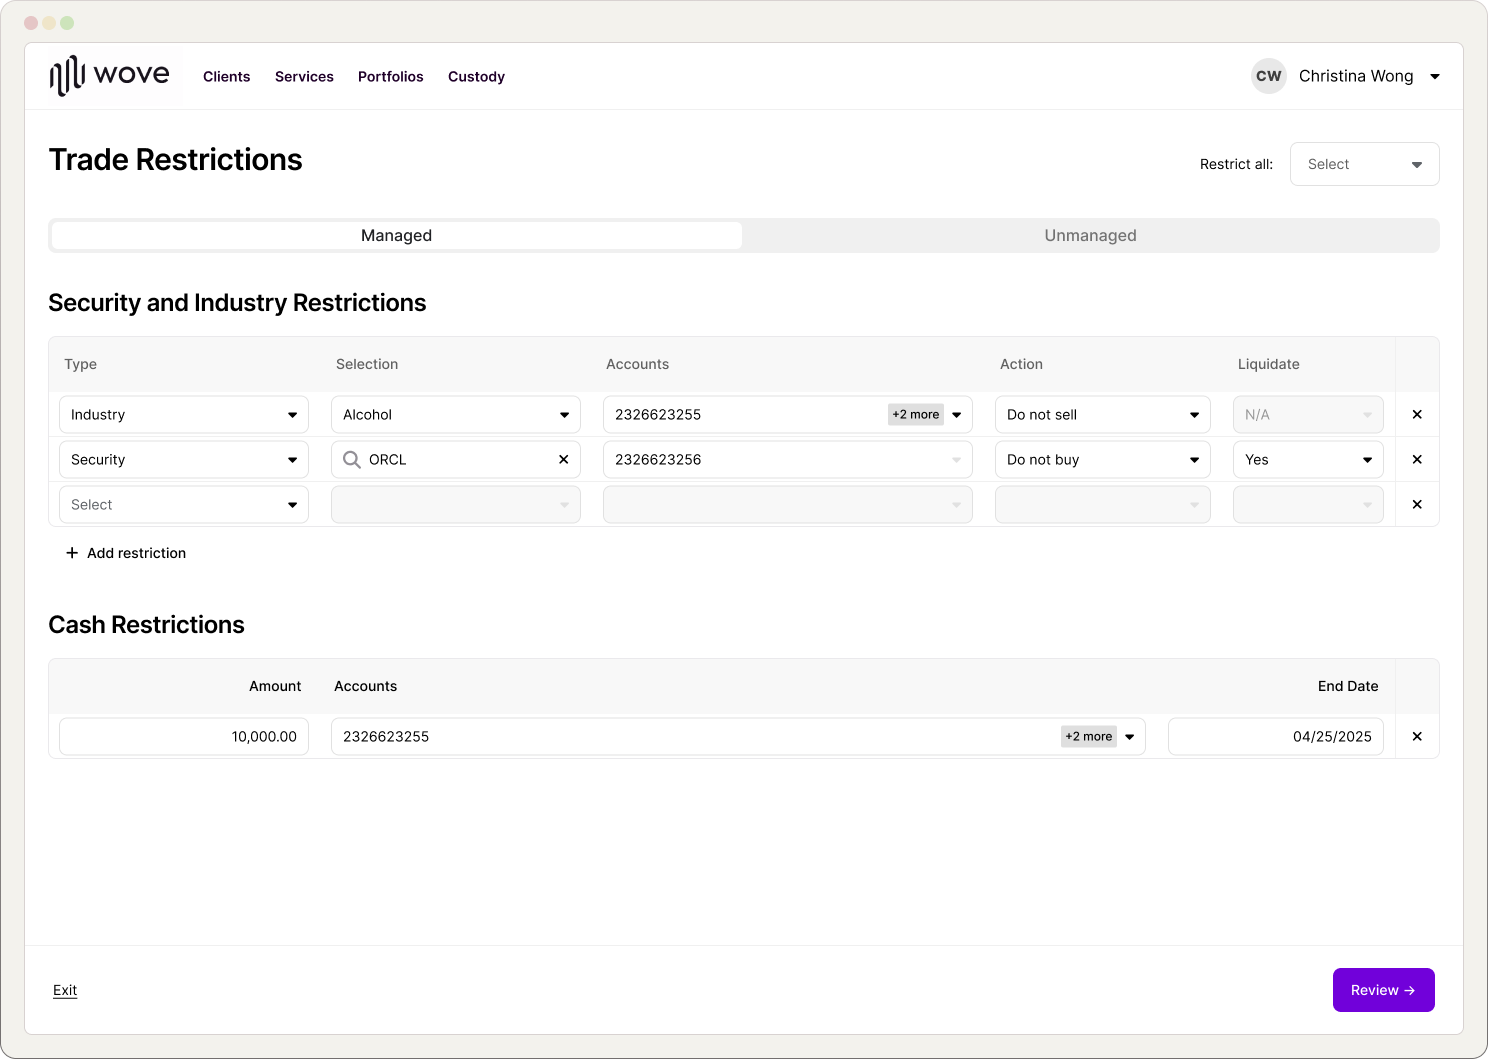
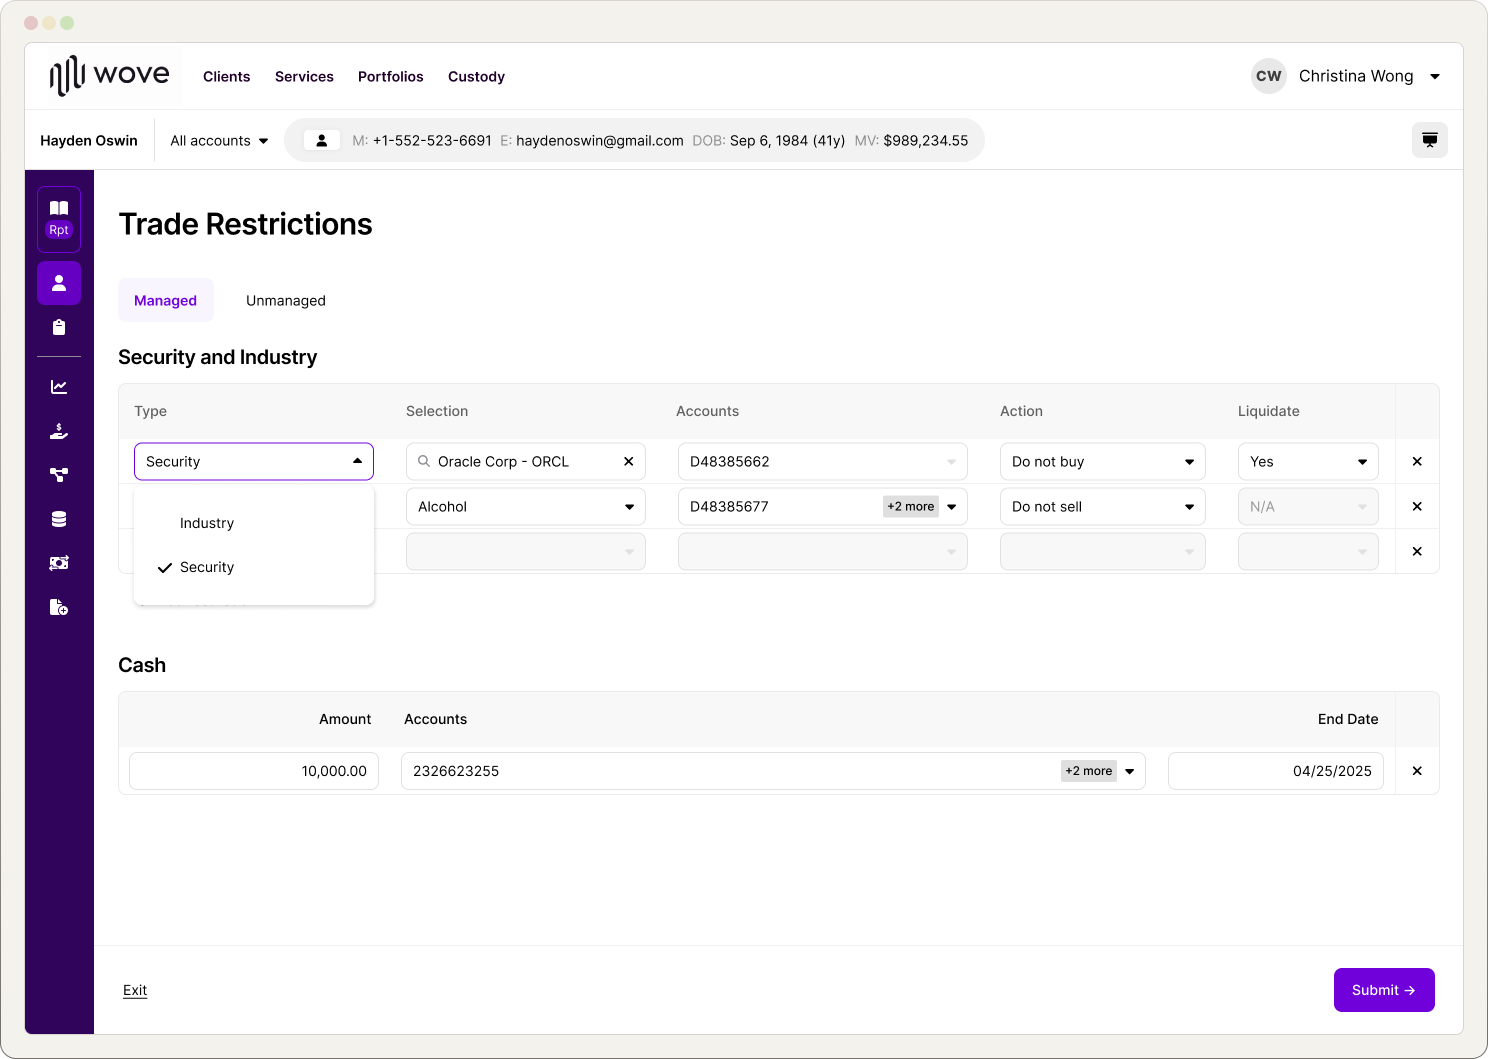
Update clientholdings, restrictions, and selfservicemetrics pages with images

diff --git a/selfservicemetrics.html b/selfservicemetrics.html
@@ -299,9 +299,10 @@
       background: #D7E3EE;
       border: 1px solid var(--color-secondary);
       border-radius: 4px;
-      font-family: var(--font-helvetica);
+      font-family: var(--font-mono);
       font-weight: 400;
       font-size: 14px;
+      text-transform: uppercase;
       color: var(--color-body);
       text-decoration: none;
       white-space: nowrap;
@@ -397,6 +398,7 @@
       footer { padding-block: 48px; }
       .footer-links { gap: 16px; }
       .page { padding-bottom: 48px; }
+      .btn-email { font-size: 0.8rem; }
     }
   </style>
 </head>
@@ -437,7 +439,7 @@
 
         <div class="hero-left">
           <h1 class="hero-title">Providing clients with their ESPP metrics on a self-service platform</h1>
-          <p class="hero-description">Carver Edison administers Employee Stock Purchase Plans for public companies. Finance teams at those companies needed access to enrollment and participation data for SEC reporting — but that data was buried in internal systems, requiring manual requests and back-and-forth with Carver Edison's team. This project put those metrics directly in clients' hands through a self-service dashboard, reducing internal overhead and increasing client confidence in their data.</p>
+          <p class="hero-description">Carver Edison administers Employee Stock Purchase Plans for public companies. Finance teams at those companies needed access to enrollment and participation data for SEC reporting. That data was only accessible by the internal team at the time, which meant Carver Edison needed to produce these reports periodically... and there was no automation at the time. This feature allowed the client's data to be immediately accessible to them at any time, removing us as the bottleneck to their financial reporting teams.</p>
         </div>
 
         <div class="hero-right">
@@ -469,9 +471,12 @@
               <ul class="solved-list">
                 <li>Access to ESPP data anytime, no more waiting 8+ hours for reports</li>
                 <li>Saved 8+ hours of report creation from our internal teams</li>
-                <li>Immediate client satisfaction</li>
-                <li>Clients can speed up their financial reporting required by the SEC</li>
+                <li>Data immediately available to client for financial reports</li>
               </ul>
+              <div style="margin-top: 16px;">
+                <p class="solved-header">Client Feedback</p>
+                <blockquote style="margin: 8px 0 0; padding: 10px 14px; border-left: 2px solid var(--color-secondary); font-family: var(--font-helvetica); font-weight: 400; font-size: 14px; line-height: 1.5; color: var(--color-body); font-style: italic;">"... used the admin tool to export a report on Cashless that eventually got sent to the CPO... The person he shared it with said it was 'fantastic' and something along the lines of 'wow how long did this take??' — should be met with positive reviews from the CPO as well"</blockquote>
+              </div>
             </div>
             <div class="solved-footer">
               <p>Reach out for the full case study</p>

diff --git a/restrictions.html b/restrictions.html
@@ -299,9 +299,10 @@
       background: #D7E3EE;
       border: 1px solid var(--color-secondary);
       border-radius: 4px;
-      font-family: var(--font-helvetica);
+      font-family: var(--font-mono);
       font-weight: 400;
       font-size: 14px;
+      text-transform: uppercase;
       color: var(--color-body);
       text-decoration: none;
       white-space: nowrap;
@@ -397,6 +398,7 @@
       footer { padding-block: 48px; }
       .footer-links { gap: 16px; }
       .page { padding-bottom: 48px; }
+      .btn-email { font-size: 0.8rem; }
     }
   </style>
 </head>
@@ -436,8 +438,8 @@
       <div class="hero-grid">
 
         <div class="hero-left">
-          <h1 class="hero-title">Restrictions: new features with a new streamlined flow</h1>
-          <p class="hero-description">BNY Wealth Services manages complex compliance constraints that govern how advisors can trade on behalf of clients. The existing restrictions experience was fragmented across multiple screens, requiring advisors to context-switch constantly. This project consolidated the workflow into a single, coherent experience — reducing errors and friction at a critical point in the advisory process.</p>
+          <h1 class="hero-title">Restrictions: new features with a streamlined workflow</h1>
+          <p class="hero-description">BNY Wealth Services manages complex compliance constraints that govern how advisors can trade on behalf of clients. The existing restrictions experience was fragmented across multiple screens, requiring advisors to context-switch constantly. This project consolidated the workflow from a clunky, inflexible experience into a single, streamlined flow.</p>
         </div>
 
         <div class="hero-right">
@@ -466,7 +468,7 @@
             <div>
               <p class="solved-header">Key Features</p>
               <ul class="solved-list">
-                <li>Catered to systematic operations users (streamline)</li>
+                <li>Streamlined workflow designed for easy field tabbing, built for the Operations team.</li>
                 <li>Liquidate existing assets that are marked as Do Not Buy</li>
                 <li>Apply restrictions to multiple accounts at once</li>
               </ul>

diff --git a/clientholdings.html b/clientholdings.html
@@ -344,9 +344,10 @@
       background: #D7E3EE;
       border: 1px solid var(--color-secondary);
       border-radius: 4px;
-      font-family: var(--font-helvetica);
+      font-family: var(--font-mono);
       font-weight: 400;
       font-size: 14px;
+      text-transform: uppercase;
       color: var(--color-body);
       text-decoration: none;
       white-space: nowrap;
@@ -468,6 +469,7 @@
       footer { padding-block: 48px; }
       .footer-links { gap: 16px; }
       .page { padding-bottom: 48px; }
+      .btn-email { font-size: 0.8rem; }
     }
   </style>
 </head>
